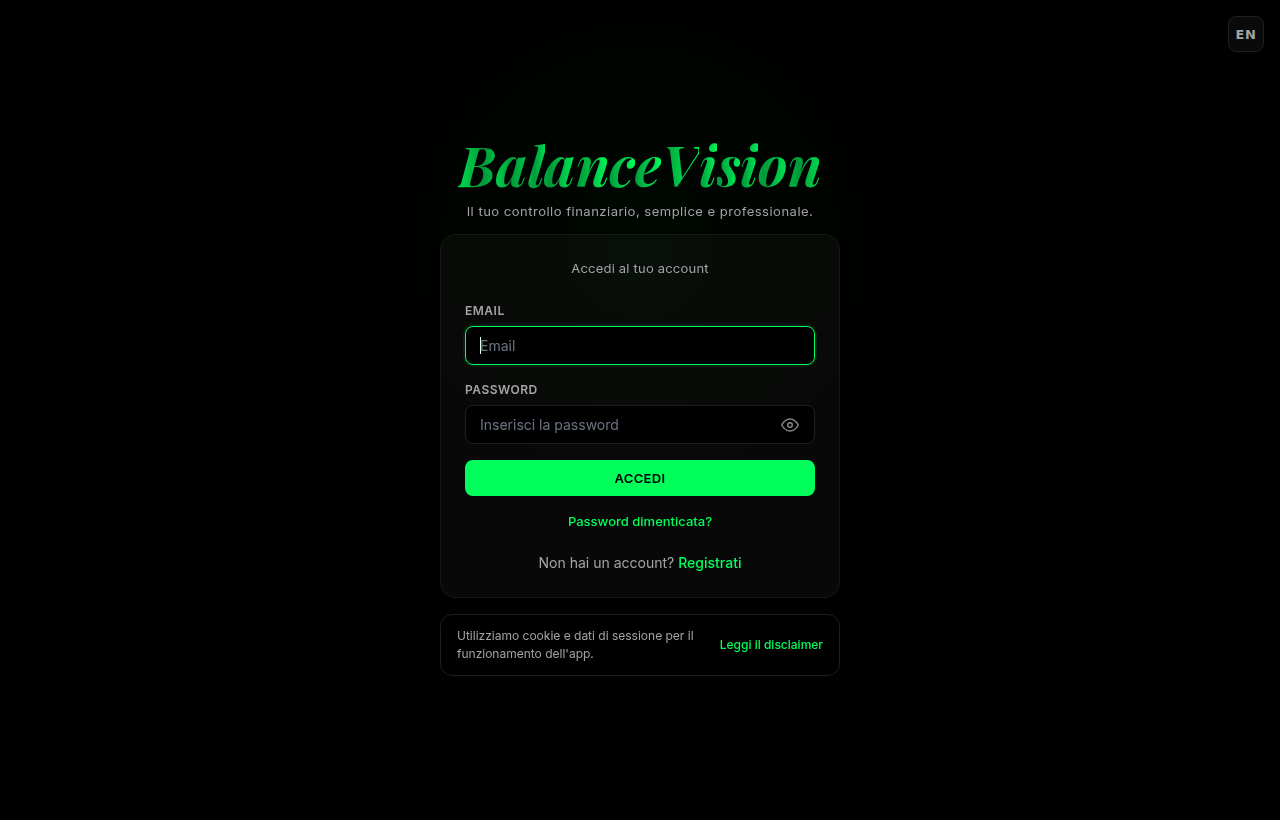
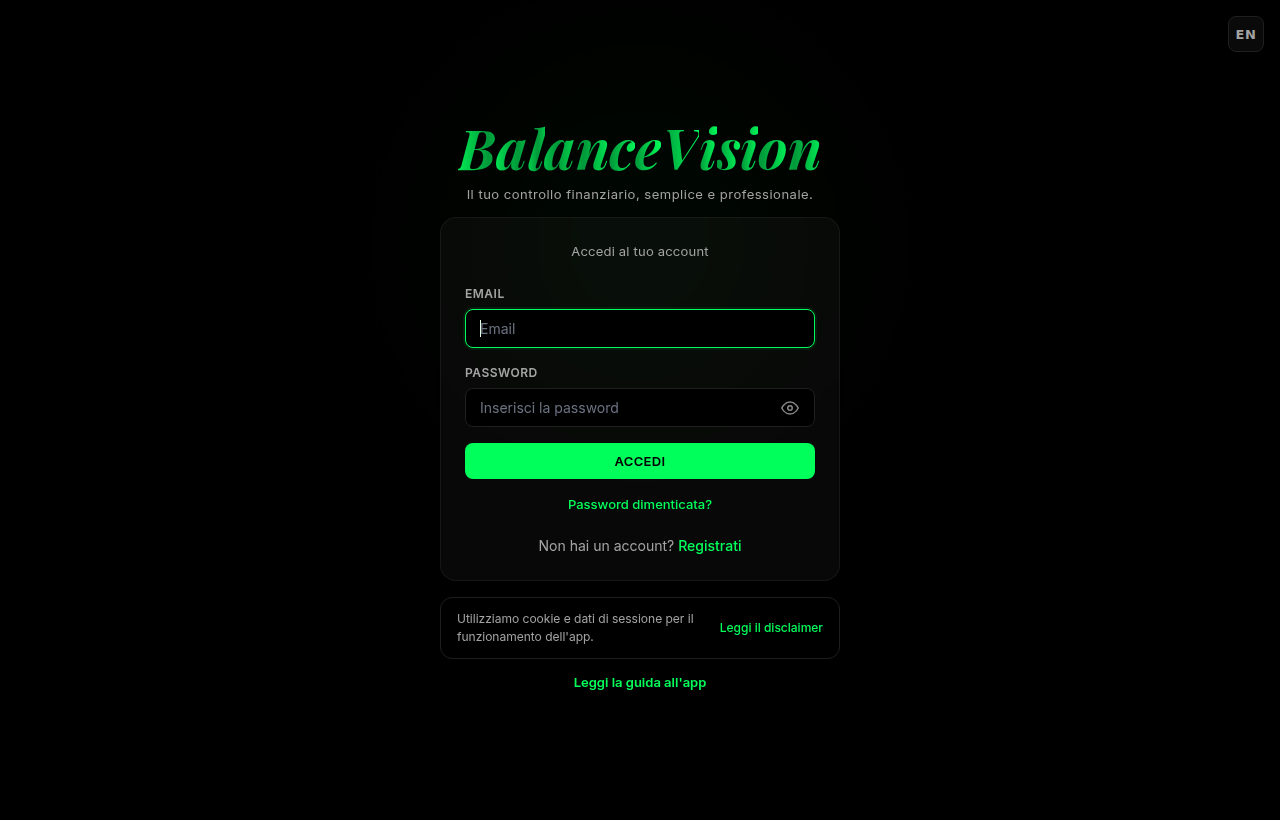
fix: marker guida riallineato al layout deployato e marker di dashboard/transazioni corretti (legend dedicate per la sezione transazioni)

diff --git a/client/src/pages/Guide.jsx b/client/src/pages/Guide.jsx
@@ -37,13 +37,13 @@ export default function Guide() {
 
   const loginMarkers = [
     { n: 1, left: 97.3, top: 4.1 },
-    { n: 2, left: 50, top: 42.1 },
-    { n: 3, left: 50, top: 51.7 },
-    { n: 4, left: 50, top: 58.3 },
-    { n: 5, left: 50, top: 63.5 },
-    { n: 6, left: 55.4, top: 68.5 },
-    { n: 7, left: 60.2, top: 78.7 },
-    { n: 8, left: 40.7, top: 83.9 },
+    { n: 2, left: 50, top: 40.1 },
+    { n: 3, left: 50, top: 49.7 },
+    { n: 4, left: 50, top: 56.2 },
+    { n: 5, left: 50, top: 61.5 },
+    { n: 6, left: 55.4, top: 66.5 },
+    { n: 7, left: 60.3, top: 76.6 },
+    { n: 8, left: 50, top: 83.2 },
   ];
 
   const dashMarkers = [
@@ -110,19 +110,15 @@ export default function Guide() {
       <AnnotatedShot img="01-login" alt="Login" markers={loginMarkers} legend={g.loginShotLegend} />
 
       <h2 className="guide-section-title">{g.dashShotTitle}</h2>
-      <AnnotatedShot img="03-dashboard" alt="Dashboard" markers={dashMarkers} legend={g.dashShotLegend.slice(0, 7)} />
+      <AnnotatedShot
+        img="03-dashboard"
+        alt="Dashboard"
+        markers={dashMarkers}
+        legend={[0, 1, 2, 3, 4, 5, 7].map(i => g.dashShotLegend[i])}
+      />
 
       <h2 className="guide-section-title">2b. {lang === 'it' ? 'Le transazioni' : 'Transactions'}</h2>
-      <AnnotatedShot
-        img="03b-dashboard-transactions"
-        alt="Transazioni"
-        markers={txMarkers}
-        legend={[
-          ...g.dashShotLegend.slice(7, 9),
-          lang === 'it' ? 'La lista di tutte le transazioni, con categorie e importi' : 'The list of all transactions, with categories and amounts',
-          lang === 'it' ? 'Scarica un report in PDF' : 'Download a PDF report',
-        ]}
-      />
+      <AnnotatedShot img="03b-dashboard-transactions" alt="Transazioni" markers={txMarkers} legend={g.txShotLegend} />
 
       <h2 className="guide-section-title">{g.menuShotTitle}</h2>
       <AnnotatedShot img="04-menu-circolare" alt="Menu" markers={menuMarkers} legend={g.menuShotLegend} intro={g.menuShotIntro} />

diff --git a/client/src/i18n/it.js b/client/src/i18n/it.js
@@ -448,6 +448,12 @@ const it = {
       'Aggiungi una nuova transazione (entrata o spesa)',
       'Scarica un report in PDF',
     ],
+    txShotLegend: [
+      'Cerca le transazioni per titolo, categoria o importo',
+      'Filtra per periodo, tipo e categoria',
+      'L\'elenco completo delle transazioni con categoria e importo',
+      'Scarica un report in PDF',
+    ],
     menuShotTitle: '3. Il menu circolare',
     menuShotIntro: 'Premendo ☰ Menu si apre la navigazione circolare. Ogni voce ti porta in una sezione:',
     menuShotLegend: [

diff --git a/client/src/i18n/en.js b/client/src/i18n/en.js
@@ -448,6 +448,12 @@ const en = {
       'Add a new transaction (income or expense)',
       'Download a PDF report',
     ],
+    txShotLegend: [
+      'Search transactions by title, category or amount',
+      'Filter by period, type and category',
+      'The full list of transactions with category and amount',
+      'Download a PDF report',
+    ],
     menuShotTitle: '3. The circular menu',
     menuShotIntro: 'Pressing ☰ Menu opens the circular navigation. Each item leads to a section:',
     menuShotLegend: [
